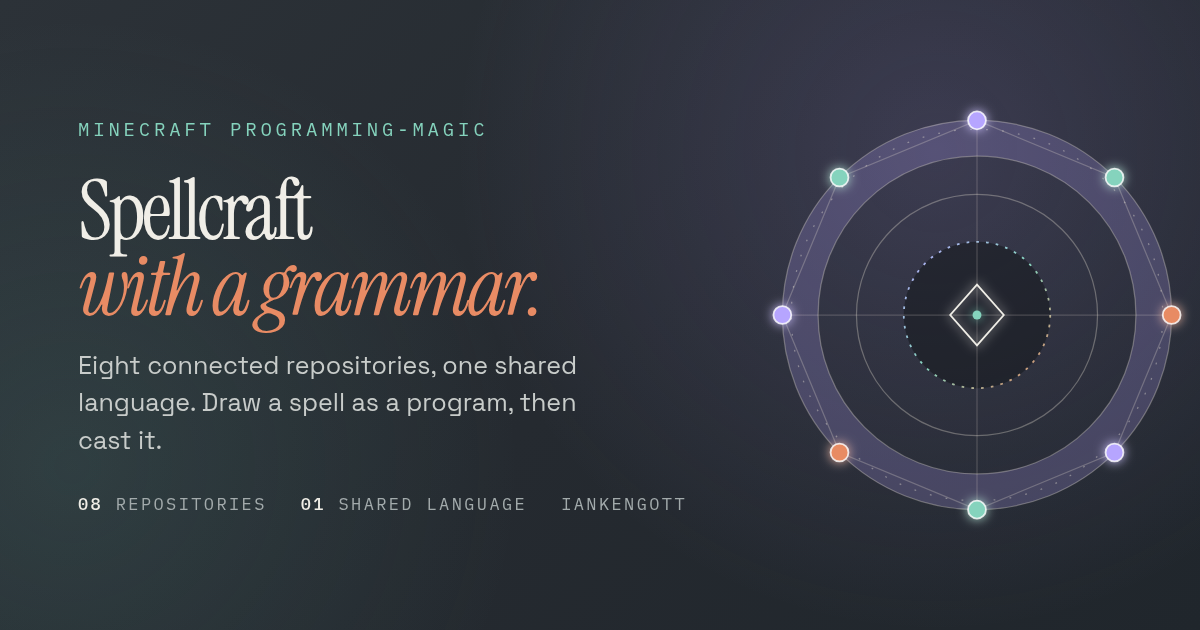
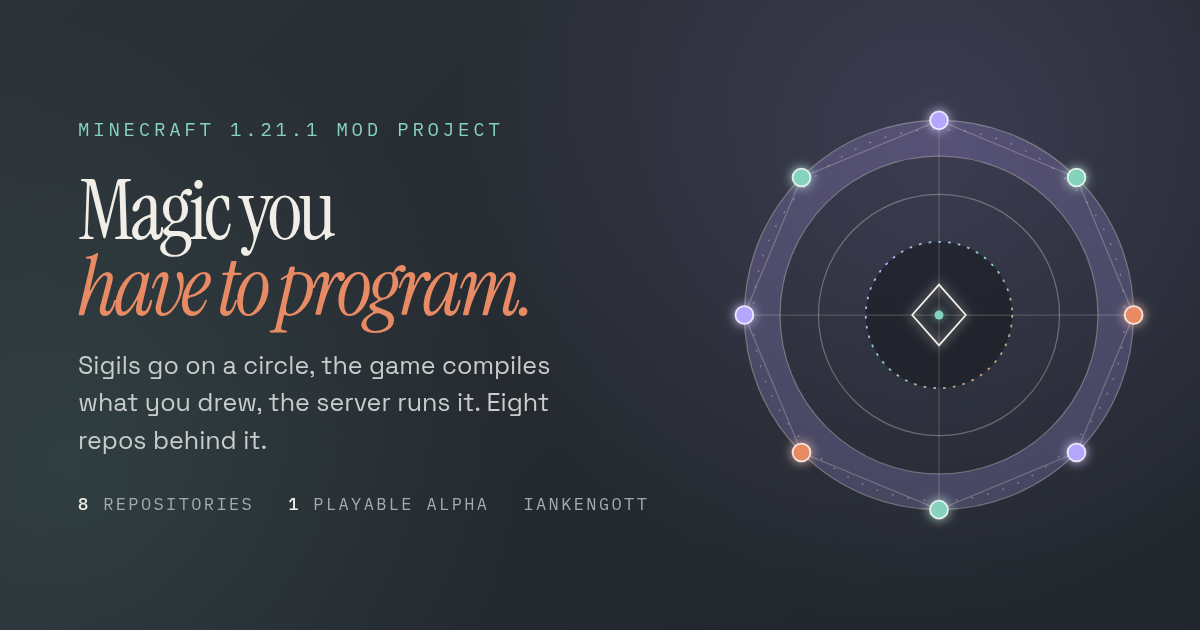
Rewrite the copy in plain language
The page was written in slogans - "Spellcraft with a grammar", "One spell.
Many systems.", "Every piece has a place" - which said very little about the
project. Replaced them with what the READMEs actually say.

- Hero states the mechanic: sigils on a circle, read clockwise outside-in,
  compiled, faulting at the exact bad sigil
- Status is honest now: the Fabric alpha is playable and frozen, the NeoForge
  port is the current job, and the six companion repos are still scaffolds
- Dropped the "field index" / "field note" framing and the "infinite directions
  to explore" stat for real numbers
- Plainer companion descriptions and aria labels; regenerated the OG image

diff --git a/index.html b/index.html
@@ -6,15 +6,15 @@
     <meta name="theme-color" content="#0d1215" />
     <meta
       name="description"
-      content="Regnum — a connected Minecraft programming-magic suite by Ian Kengott."
+      content="Regnum is a Minecraft mod where spells are programs you draw on circles. Eight repos, one playable Fabric alpha, a NeoForge port in progress."
     />
-    <title>Regnum — The Realm of Direction</title>
+    <title>Regnum — programming magic for Minecraft</title>
     <link rel="canonical" href="https://iankengott.github.io/regnum-hub/" />
     <meta property="og:type" content="website" />
-    <meta property="og:title" content="Regnum — The Realm of Direction" />
+    <meta property="og:title" content="Regnum — programming magic for Minecraft" />
     <meta
       property="og:description"
-      content="A Minecraft programming-magic suite: draw a spell as a program, then cast it. Eight connected repositories, one shared language."
+      content="A Minecraft mod where spells are programs you draw on circles. Eight repos, one playable Fabric alpha, a NeoForge port in progress."
     />
     <meta property="og:url" content="https://iankengott.github.io/regnum-hub/" />
     <meta property="og:image" content="https://iankengott.github.io/regnum-hub/og-image.png" />
@@ -42,7 +42,7 @@
           </span>
           <span>REGNUM</span>
         </a>
-        <p class="header-note">THE REALM OF DIRECTION <span>/</span> 1.21.1</p>
+        <p class="header-note">REGNUM SMP <span>/</span> MINECRAFT 1.21.1</p>
         <a class="header-link" href="https://github.com/iankengott/regnum-hub" target="_blank" rel="noreferrer">
           GitHub <span aria-hidden="true">↗</span>
         </a>
@@ -51,30 +51,30 @@
       <main id="top">
         <section class="hero" aria-labelledby="hero-title">
           <div class="hero-copy">
-            <p class="eyebrow"><span class="eyebrow-mark">✦</span> Minecraft programming-magic</p>
-            <h1 id="hero-title">Spellcraft<br /><em>with a grammar.</em></h1>
+            <p class="eyebrow"><span class="eyebrow-mark">✦</span> Minecraft 1.21.1 mod project</p>
+            <h1 id="hero-title">Magic you<br /><em>have to program.</em></h1>
             <p class="hero-lede">
-              Arrange sigils on geometric circles, read them clockwise from the outside in,
-              and make the world answer. Regnum is the connected suite that gives that idea
-              a place to live.
+              You place sigils on a circle. The game reads them clockwise, outer ring first,
+              and compiles what you drew. Valid circles run on the server; a broken one faults
+              at the exact sigil that's wrong. This page indexes the eight repos behind it.
             </p>
             <div class="hero-actions">
-              <a class="button button-primary" href="#index">Open the field index <span aria-hidden="true">↓</span></a>
+              <a class="button button-primary" href="#index">See the repos <span aria-hidden="true">↓</span></a>
               <a class="text-link" href="https://github.com/iankengott/vector-regnum" target="_blank" rel="noreferrer">
                 Start with Vector-Regnum <span aria-hidden="true">↗</span>
               </a>
             </div>
             <div class="hero-meta" aria-label="Project facts">
-              <span><strong>08</strong> repositories</span>
-              <span><strong>01</strong> shared language</span>
-              <span><strong>∞</strong> directions to explore</span>
+              <span><strong>8</strong> repositories</span>
+              <span><strong>1</strong> playable alpha</span>
+              <span><strong>NeoForge</strong> port in progress</span>
             </div>
           </div>
 
-          <div class="hero-figure" aria-label="A stylized Regnum magic circle" role="img">
-            <div class="figure-annotation annotation-top">OUTSIDE → IN</div>
+          <div class="hero-figure" aria-label="A Regnum spell circle with eight sigils" role="img">
+            <div class="figure-annotation annotation-top">READ OUTSIDE → IN</div>
             <div class="figure-annotation annotation-right">COMPILE / CAST</div>
-            <div class="figure-annotation annotation-bottom"><span class="pulse-dot"></span> server-authoritative</div>
+            <div class="figure-annotation annotation-bottom"><span class="pulse-dot"></span> runs on the server</div>
             <svg class="magic-circle" viewBox="0 0 560 560" aria-hidden="true">
               <defs>
                 <linearGradient id="ringGradient" x1="0" y1="0" x2="1" y2="1">
@@ -119,112 +119,112 @@
                 </g>
               </g>
             </svg>
-            <span class="figure-index">FIELD NOTE 00 / 05</span>
+            <span class="figure-index">EIGHT SIGILS, ONE CIRCLE</span>
           </div>
         </section>
 
         <section class="index-section" id="index" aria-labelledby="index-title">
           <div class="index-heading">
             <div>
-              <p class="section-label">FIELD INDEX <span>/</span> A SHORT WAY IN</p>
-              <h2 id="index-title">Find your way in.</h2>
+              <p class="section-label">THE REPOS <span>/</span> AND WHAT EACH ONE OWNS</p>
+              <h2 id="index-title">What's actually here.</h2>
             </div>
             <div class="carousel-controls">
               <span class="carousel-counter" aria-live="polite"><strong id="current-slide">01</strong> / <span id="slide-count">05</span></span>
-              <button class="carousel-arrow" type="button" data-carousel="prev" aria-label="Previous field note">←</button>
-              <button class="carousel-arrow" type="button" data-carousel="next" aria-label="Next field note">→</button>
+              <button class="carousel-arrow" type="button" data-carousel="prev" aria-label="Previous section">←</button>
+              <button class="carousel-arrow" type="button" data-carousel="next" aria-label="Next section">→</button>
             </div>
           </div>
 
-          <div class="carousel" role="region" aria-roledescription="carousel" aria-label="Regnum field index">
+          <div class="carousel" role="region" aria-roledescription="carousel" aria-label="Regnum project sections">
             <div class="carousel-track" id="carousel-track">
               <article class="slide slide-premise" role="group" aria-roledescription="slide" aria-label="1 of 5">
                 <div class="slide-main">
-                  <p class="slide-kicker">01 / THE PREMISE</p>
-                  <h3>One spell.<br /><em>Many systems.</em></h3>
+                  <p class="slide-kicker">01 / WHAT IT IS</p>
+                  <h3>A mod, plus<br /><em>the mods around it.</em></h3>
                   <p>
-                    Regnum is a Minecraft programming-magic mod and a public multi-repository
-                    project. The core runtime owns the language; the suite gives the world
-                    around it distinct, versioned places to grow.
+                    Vector-Regnum owns the spell language, the runtime, and the mana rules.
+                    The other six mods each handle one part of the SMP and call into it
+                    instead of copying it.
                   </p>
                 </div>
                 <div class="slide-aside">
-                  <p class="aside-label">The short version</p>
-                  <p class="aside-quote">A spell is a program you can draw.</p>
-                  <a class="inline-link" href="https://github.com/iankengott/vector-regnum" target="_blank" rel="noreferrer">Read the core README <span aria-hidden="true">↗</span></a>
+                  <p class="aside-label">What that means playing it</p>
+                  <p class="aside-quote">Draw the circle wrong and the game points at the sigil that broke.</p>
+                  <a class="inline-link" href="https://github.com/iankengott/vector-regnum" target="_blank" rel="noreferrer">Read the Vector-Regnum README <span aria-hidden="true">↗</span></a>
                 </div>
               </article>
 
               <article class="slide slide-process" role="group" aria-roledescription="slide" aria-label="2 of 5" aria-hidden="true">
                 <div class="slide-main">
-                  <p class="slide-kicker">02 / THE GRAMMAR</p>
-                  <h3>Author.<br />Compile. <em>Cast.</em></h3>
-                  <p>Every direction starts at the circle. The language makes the order visible, the runtime makes the limits real.</p>
+                  <p class="slide-kicker">02 / HOW CASTING WORKS</p>
+                  <h3>Draw it,<br /><em>then run it.</em></h3>
+                  <p>The circle is the source code. Compiling checks the types, prices the mana, and sets the limits before anything touches the world.</p>
                 </div>
-                <div class="process-steps" aria-label="The Regnum casting process">
-                  <div class="process-step"><span>01</span><div><strong>Author</strong><small>Place sigils on a circle.</small></div></div>
-                  <div class="process-step"><span>02</span><div><strong>Compile</strong><small>Type-check, price, and bound it.</small></div></div>
-                  <div class="process-step"><span>03</span><div><strong>Cast</strong><small>Let the server make it real.</small></div></div>
+                <div class="process-steps" aria-label="How a Regnum spell gets cast">
+                  <div class="process-step"><span>01</span><div><strong>Draw</strong><small>Put sigils on the rings, in order.</small></div></div>
+                  <div class="process-step"><span>02</span><div><strong>Compile</strong><small>Type-check it and work out the cost.</small></div></div>
+                  <div class="process-step"><span>03</span><div><strong>Cast</strong><small>The server runs it — or faults.</small></div></div>
                 </div>
               </article>
 
               <article class="slide slide-core" role="group" aria-roledescription="slide" aria-label="3 of 5" aria-hidden="true">
                 <div class="slide-main">
-                  <p class="slide-kicker">03 / CORE &amp; REFERENCE</p>
-                  <h3>Start at<br /><em>the source.</em></h3>
-                  <p>Two repositories hold the active runtime and the frozen reference that proves where it came from.</p>
+                  <p class="slide-kicker">03 / THE TWO MAIN REPOS</p>
+                  <h3>Start<br /><em>here.</em></h3>
+                  <p>One is where the work happens now. The other is the Fabric build it grew out of, kept exactly as it was.</p>
                 </div>
                 <div class="repo-stack">
                   <a class="repo-row repo-row-featured" href="https://github.com/iankengott/vector-regnum" target="_blank" rel="noreferrer">
-                    <span class="repo-row-number">01</span><span><strong>Vector-Regnum</strong><small>Active core · NeoForge 1.21.1 target</small></span><b aria-hidden="true">↗</b>
+                    <span class="repo-row-number">01</span><span><strong>Vector-Regnum</strong><small>Active · porting to NeoForge 1.21.1</small></span><b aria-hidden="true">↗</b>
                   </a>
                   <a class="repo-row" href="https://github.com/iankengott/vector-regnum-fabric-legacy" target="_blank" rel="noreferrer">
-                    <span class="repo-row-number">02</span><span><strong>Vector-Regnum Fabric Legacy</strong><small>Archived reference · playable Fabric alpha</small></span><b aria-hidden="true">↗</b>
+                    <span class="repo-row-number">02</span><span><strong>Vector-Regnum Fabric Legacy</strong><small>Frozen · the playable 1.21.1 alpha</small></span><b aria-hidden="true">↗</b>
                   </a>
                 </div>
               </article>
 
               <article class="slide slide-companions" role="group" aria-roledescription="slide" aria-label="4 of 5" aria-hidden="true">
                 <div class="slide-main">
-                  <p class="slide-kicker">04 / COMPANION PROJECTS</p>
-                  <h3>Every piece<br /><em>has a place.</em></h3>
-                  <p>Follow the part of the SMP you want to shape. Each project owns a narrow system and connects through the suite.</p>
+                  <p class="slide-kicker">04 / THE OTHER SIX</p>
+                  <h3>The rest of<br /><em>the SMP.</em></h3>
+                  <p>Each one owns a narrow system and talks to Vector-Regnum through its API. All six are scaffolds so far — the design is further along than the code.</p>
                 </div>
                 <div class="companion-list">
-                  <a href="https://github.com/iankengott/regnum-origins" target="_blank" rel="noreferrer"><span>Origins</span><small>Identity &amp; body traits</small><b aria-hidden="true">↗</b></a>
-                  <a href="https://github.com/iankengott/regnum-combat" target="_blank" rel="noreferrer"><span>Combat</span><small>Precision melee &amp; disruption</small><b aria-hidden="true">↗</b></a>
-                  <a href="https://github.com/iankengott/regnum-progression" target="_blank" rel="noreferrer"><span>Progression</span><small>Classes &amp; skill trees</small><b aria-hidden="true">↗</b></a>
-                  <a href="https://github.com/iankengott/regnum-world-story" target="_blank" rel="noreferrer"><span>World &amp; Story</span><small>Lore, dimensions &amp; ecology</small><b aria-hidden="true">↗</b></a>
-                  <a href="https://github.com/iankengott/regnum-administration" target="_blank" rel="noreferrer"><span>Administration</span><small>Permissioned control surfaces</small><b aria-hidden="true">↗</b></a>
-                  <a href="https://github.com/iankengott/regnum-smp-modpack" target="_blank" rel="noreferrer"><span>SMP Modpack</span><small>Distribution &amp; integration</small><b aria-hidden="true">↗</b></a>
+                  <a href="https://github.com/iankengott/regnum-origins" target="_blank" rel="noreferrer"><span>Origins</span><small>Body traits, and your one element</small><b aria-hidden="true">↗</b></a>
+                  <a href="https://github.com/iankengott/regnum-combat" target="_blank" rel="noreferrer"><span>Combat</span><small>Melee, parries, spell disruption</small><b aria-hidden="true">↗</b></a>
+                  <a href="https://github.com/iankengott/regnum-progression" target="_blank" rel="noreferrer"><span>Progression</span><small>Classes, levels, skill trees</small><b aria-hidden="true">↗</b></a>
+                  <a href="https://github.com/iankengott/regnum-world-story" target="_blank" rel="noreferrer"><span>World &amp; Story</span><small>Lore, dimensions, world state</small><b aria-hidden="true">↗</b></a>
+                  <a href="https://github.com/iankengott/regnum-administration" target="_blank" rel="noreferrer"><span>Administration</span><small>Admin tools and server controls</small><b aria-hidden="true">↗</b></a>
+                  <a href="https://github.com/iankengott/regnum-smp-modpack" target="_blank" rel="noreferrer"><span>SMP Modpack</span><small>The mod list and the pack itself</small><b aria-hidden="true">↗</b></a>
                 </div>
               </article>
 
               <article class="slide slide-direction" role="group" aria-roledescription="slide" aria-label="5 of 5" aria-hidden="true">
                 <div class="slide-main">
-                  <p class="slide-kicker">05 / THE DIRECTION</p>
-                  <h3>From a playable<br /><em>alpha to an SMP.</em></h3>
+                  <p class="slide-kicker">05 / WHERE IT STANDS</p>
+                  <h3>Playable,<br /><em>not released.</em></h3>
                   <p>
-                    The verified Fabric alpha is now the migration reference. Active development
-                    moves toward NeoForge 1.21.1, then outward into identity, elements, progression,
-                    world story, and a reproducible pack.
+                    The Fabric alpha runs: typed execution, the circle editor, mana and crystals,
+                    the field manual, multiplayer rules, automation, and the effects layer. That
+                    build is frozen now. Porting all of it to NeoForge is the current job.
                   </p>
                 </div>
                 <div class="direction-note">
                   <span class="direction-line"></span>
-                  <p><strong>Current target</strong><br />NeoForge 1.21.1</p>
-                  <a class="button button-outline" href="https://github.com/iankengott" target="_blank" rel="noreferrer">View all on GitHub <span aria-hidden="true">↗</span></a>
+                  <p><strong>Working on</strong><br />The NeoForge 1.21.1 port</p>
+                  <a class="button button-outline" href="https://github.com/iankengott" target="_blank" rel="noreferrer">All repos on GitHub <span aria-hidden="true">↗</span></a>
                 </div>
               </article>
             </div>
           </div>
 
-          <div class="carousel-dots" role="tablist" aria-label="Choose a field note">
-            <button type="button" role="tab" aria-selected="true" aria-label="Show field note 1" data-slide-to="0"><span></span></button>
-            <button type="button" role="tab" aria-selected="false" aria-label="Show field note 2" data-slide-to="1"><span></span></button>
-            <button type="button" role="tab" aria-selected="false" aria-label="Show field note 3" data-slide-to="2"><span></span></button>
-            <button type="button" role="tab" aria-selected="false" aria-label="Show field note 4" data-slide-to="3"><span></span></button>
-            <button type="button" role="tab" aria-selected="false" aria-label="Show field note 5" data-slide-to="4"><span></span></button>
+          <div class="carousel-dots" role="tablist" aria-label="Choose a section">
+            <button type="button" role="tab" aria-selected="true" aria-label="Show section 1" data-slide-to="0"><span></span></button>
+            <button type="button" role="tab" aria-selected="false" aria-label="Show section 2" data-slide-to="1"><span></span></button>
+            <button type="button" role="tab" aria-selected="false" aria-label="Show section 3" data-slide-to="2"><span></span></button>
+            <button type="button" role="tab" aria-selected="false" aria-label="Show section 4" data-slide-to="3"><span></span></button>
+            <button type="button" role="tab" aria-selected="false" aria-label="Show section 5" data-slide-to="4"><span></span></button>
           </div>
         </section>
       </main>
@@ -236,7 +236,7 @@
           </span>
           <span>REGNUM</span>
         </a>
-        <span class="footer-note">A connected Minecraft suite by Ian Kengott</span>
+        <span class="footer-note">Built by Ian Kengott</span>
         <a class="footer-link" href="https://github.com/iankengott/regnum-hub" target="_blank" rel="noreferrer">Source <span aria-hidden="true">↗</span></a>
       </footer>
     </div>

diff --git a/og-source.html b/og-source.html
@@ -69,10 +69,10 @@
   </head>
   <body>
     <div>
-      <p class="eyebrow">Minecraft programming-magic</p>
-      <h1>Spellcraft<br /><em>with a grammar.</em></h1>
-      <p>Eight connected repositories, one shared language. Draw a spell as a program, then cast it.</p>
-      <div class="meta"><span><b>08</b> repositories</span><span><b>01</b> shared language</span><span>iankengott</span></div>
+      <p class="eyebrow">Minecraft 1.21.1 mod project</p>
+      <h1>Magic you<br /><em>have to program.</em></h1>
+      <p>Sigils go on a circle, the game compiles what you drew, the server runs it. Eight repos behind it.</p>
+      <div class="meta"><span><b>8</b> repositories</span><span><b>1</b> playable alpha</span><span>iankengott</span></div>
     </div>
     <svg viewBox="0 0 560 560">
       <defs>
